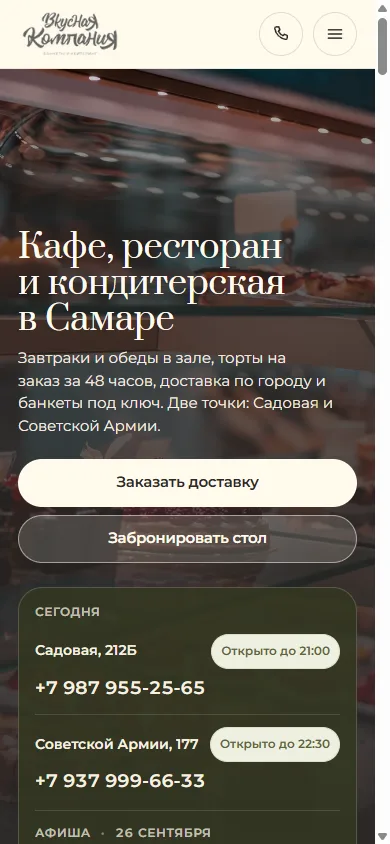
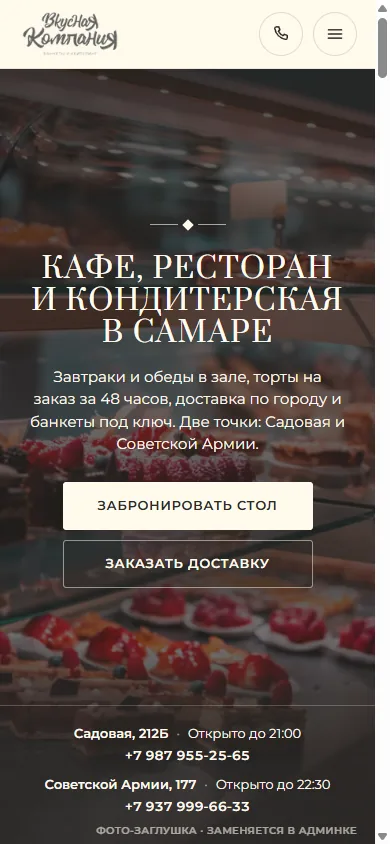
docs(design): описание четвёртого захода и свежие снимки
Задача: `DESIGN.md` описывал контакты с тремя действиями и картой в
рамке, полосу с пятью цифрами и пару оценок в панели отзывов — всего этого
на странице больше нет, а снимки в `README` показывали прежние контакты.

Функциональность: раздел «Четвёртый заход 17 сентября» — какие повторы
сняты, почему рваный край не взят и что взято вместо него, что доведено на
телефоне; обновлены пункты про полосу цифр, отзывы и контакты. Шесть
снимков в `docs/screenshots` пересняты с собранного сайта.

Claude-Session: https://claude.ai/code/session_0152AT9eVdd78u9ZhQAqQEtg

diff --git a/docs/DESIGN.md b/docs/DESIGN.md
@@ -46,7 +46,8 @@
 
 ### Секции после прохода
 
-- **Полоса цифр** — те же пять цифр, по центру своих ячеек.
+- **Полоса цифр** — три цифры по центру своих ячеек: точки, часы на торт,
+  рейтинг. Числа оценок и отзывов ушли — их называет секция отзывов.
 - **Два зала** — кинолента с подглядыванием (Green Park, Levantine): один
   крупный кадр 16:10 по центру, соседи обрезаны краем окна, кремовые круглые
   стрелки лежат на самом кадре, точки под лентой. Стрелки, точки, ←/→ и
@@ -67,13 +68,45 @@
   заголовок слева, справа настоящий экран приложения в квадратной рамке с
   кремовой волосяной линией, подрезанный низом полосы.
 - **Отзывы** — панель рейтинга квадратная, «Хорошее место 2026» ярлыком со
-  звездой, оценки точек парой антиквой под линией; переключатель виджета —
-  вкладки, активная линия по `aria-pressed`.
+  звездой; оценки точек стоят только во вкладках виджета (активная линия по
+  `aria-pressed`) — пара под линией панели повторяла их и снята.
 - **Контакты** — точки без рамок, между ними волосяная линия; адрес антиквой,
-  статус словами в строке меты оливковым, «Открыть в Яндекс Картах» текстовой
-  ссылкой; карта на штрихованной плашке с заголовком «Карта».
+  тип и статус двумя короткими строками, статус оливковым; у точки одно
+  действие — «Построить маршрут». Панель «Написать нам» третьей колонкой на
+  десктопе, широкой строкой на планшете. Карта — полосой во всю ширину без
+  рамки, вплотную к подвалу (Green Park): всегда обе точки в кадре, режима
+  «одна точка крупно» нет; на планке над ней подпись «На карте · обе точки»
+  и ссылки на карточки точек в Яндекс Картах. До полосы карта стояла в рамке
+  в правой колонке, а у каждой точки было три действия в одно место.
 - **Подвал, липкая полоса, диалог** — без кружков, кнопки-оттиски; лист брони
   на телефоне держит радиус 12 px сверху, на десктопе — 3 px.
+
+### Четвёртый заход 17 сентября — дубли, карта, телефон
+
+Владелец отметил дублирование, попросил продумать карту и потребовал
+идеальную мобилку; рваный фрейм с наложениями (Everest) — «на размышление».
+
+- **Повторы сняты.** Направления: у точки остались адрес и «Сегодня 8:00 —
+  21:00» — статус и номер уже стоят на полосе первого экрана, в контактах и в
+  подвале. Плашка-заглушка кадра подписана «Фото зала», а не именем точки,
+  которое стоит прямо под ней. Лид «Двух залов» (имена точек третий раз за
+  два экрана) снят. Полоса цифр и панель отзывов больше не называют одни и те
+  же числа. В контактах вместо «Построить маршрут» + «Показать на карте» +
+  «Открыть в Яндекс Картах» — один маршрут; заглушка карты не печатает адреса.
+  Подвал повторяет контакты намеренно — это норма сайта.
+- **Рваный край не взят.** Пробы на 1440 (зигзаг-маска и `feTurbulence` по
+  кадру): на штрихованных плашках читается как мятая бумага и брак вёрстки,
+  на кремовой печатной странице — как скрапбук. Взята тихая часть приёма:
+  на десктопе текст точки стоит на бумажной панели, которая на 64–72 px
+  заезжает на кадр (Green Park: панель на фото), подпись плашки в
+  перевёрнутом ряду уходит в наружный угол. Настоящим фото маска не нужна.
+- **Телефон.** Пол заголовка первого экрана 24 px (на 320 три строки вместо
+  четырёх); до 360 кнопки точки во всю ширину, плашки тортов 17 px с
+  переносом, подпись цифр 11 px; ленте на таче стрелки 44 px и точки 40 × 44;
+  все текстовые ссылки (полоса точек, адрес, номера, подвал, планка карты,
+  «Все отзывы») растут до 44 px внутри своих компонентов — глобальное правило
+  под `pointer: coarse` проигрывало скоуповым селекторам и не работало.
+  Виджет карты уже 480 px берёт зум 11: при 12 метки стояли на краях.
 
 ### Контраст, снятый по пикселям
 
